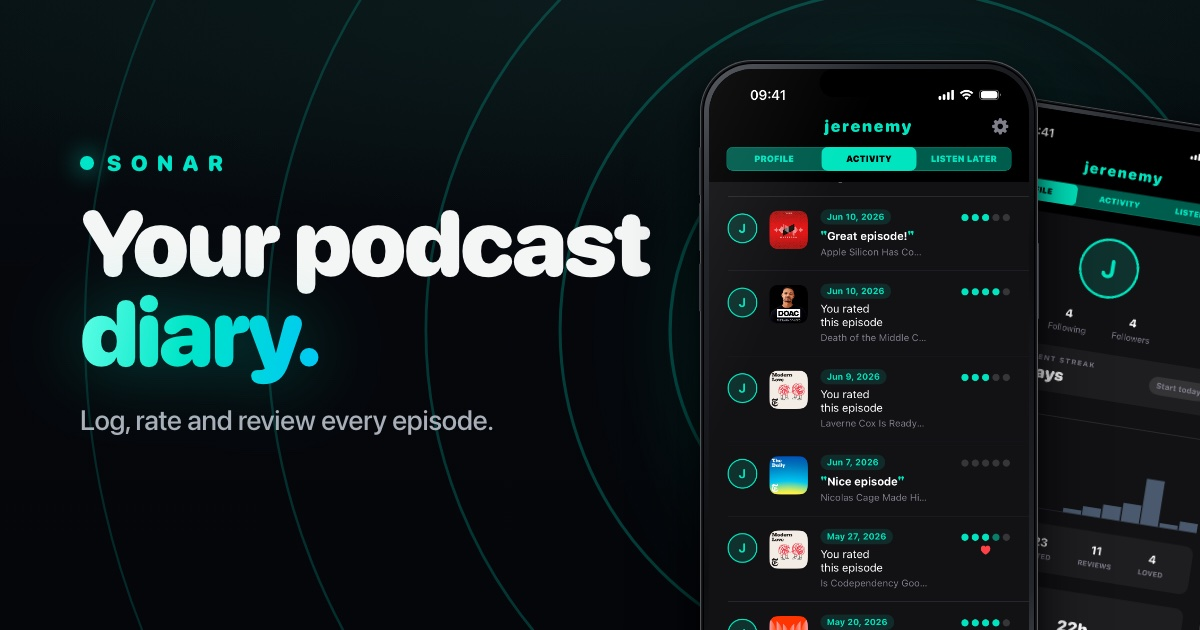
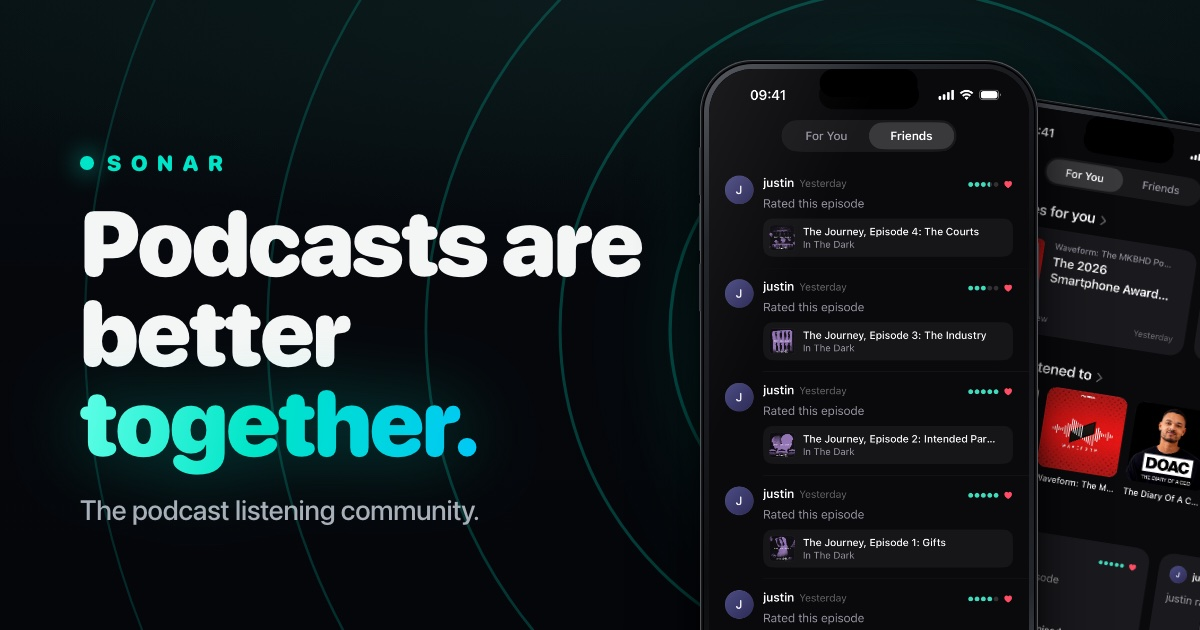
feat(sonar): new marketing assets, community positioning, Instagram
Swaps every screenshot for the redesigned app (friends feed, home,
review, episode, profile, search) from the latest marketing render, and
follows the kit's repositioning: "Podcasts are better together", the
podcast listening community. Adds a Reviews & replies section, a friends
icon tile, the new Open Graph image, and links @sonarpodcasts on
Instagram from the closing section and the foot.

diff --git a/app/templates/works/sonar/sonar.html b/app/templates/works/sonar/sonar.html
@@ -2,12 +2,13 @@
 {% import "partials/_ui.html" as ui with context %}
 {#- Sonar's own page: the one place on the site that wears a product's colours outside a device,
     because its job is to sell the app (static/site/README.md, "A product's own page"). The
-    world is styled in static/site/works/sonar.css under .sn; the rater is static/sonar/sonar.js. -#}
+    world is styled in static/site/works/sonar.css under .sn; the rater is static/sonar/sonar.js.
+    Screens and copy follow the marketing kit in the Sonar repo (marketing/web, marketing/src). -#}
 
-{#- The App Store link. Empty until Sonar is live: the buttons then say "Coming soon" and offer
-    to email when it launches. Paste the apps.apple.com URL here and every button becomes a download. -#}
+{#- The App Store link. Empty, the buttons say "Coming soon" and offer to email at launch. -#}
 {%- set app_store_url = "https://apps.apple.com/us/app/sonar-podcast-tracker/id6761410303" %}
 {%- set notify_url = "mailto:support@sonar.show?subject=Tell%20me%20when%20Sonar%20launches" %}
+{%- set instagram_url = "https://www.instagram.com/sonarpodcasts/" %}
 {%- set img = url_for('static', filename='sonar/img/') %}
 
 {% macro get_sonar(where) -%}
@@ -24,15 +25,22 @@
 {%- endif %}
 {%- endmacro %}
 
+{% macro instagram(cls="sn-ghost") -%}
+<a class="{{ cls }}" href="{{ instagram_url }}" target="_blank" rel="noopener">
+  <svg viewBox="0 0 24 24" aria-hidden="true"><rect x="3" y="3" width="18" height="18" rx="5.5" fill="none" stroke="currentColor" stroke-width="2"/><circle cx="12" cy="12" r="4.2" fill="none" stroke="currentColor" stroke-width="2"/><circle cx="17.3" cy="6.7" r="1.3" fill="currentColor"/></svg>
+  <span>@sonarpodcasts</span><span class="sr"> on Instagram (opens in a new tab)</span>
+</a>
+{%- endmacro %}
+
 {% macro phone(name, alt, cls="") -%}
 <img class="sn-phone {{ cls }}" src="{{ img }}phone-{{ name }}.webp" alt="{{ alt }}" width="880" height="1792" loading="{{ 'eager' if 'hero' in cls else 'lazy' }}" decoding="async">
 {%- endmacro %}
 
-{% block title %}Sonar · Your podcast diary for iPhone{% endblock %}
-{% block description %}Sonar is a podcast diary for iPhone. Log, rate and review every episode you hear, and see what your friends can't stop listening to. Letterboxd for podcasts.{% endblock %}
+{% block title %}Sonar · The podcast listening community{% endblock %}
+{% block description %}Sonar is the podcast listening community for iPhone. See what your friends are hearing, share your take on every episode, and reply to theirs. Free on the App Store.{% endblock %}
 {% block preview %}
-  {%- set og_title = "Sonar · Your podcast diary" %}
-  {%- set og_description = "Log, rate and review every episode you hear, and see what your friends can't stop listening to." %}
+  {%- set og_title = "Sonar · Podcasts are better together" %}
+  {%- set og_description = "The podcast listening community. See what your friends are hearing, share your take on every episode, and reply to theirs." %}
   {%- set og_image = url_for('static', filename='sonar/img/og.jpg', _external=True) %}
   <meta property="og:title" content="{{ og_title }}">
   <meta property="og:description" content="{{ og_description }}">
@@ -41,7 +49,7 @@
   <meta property="og:image" content="{{ og_image }}">
   <meta property="og:image:width" content="1200">
   <meta property="og:image:height" content="630">
-  <meta property="og:image:alt" content="Sonar: Your podcast diary. Two iPhones showing an episode diary and a listening profile.">
+  <meta property="og:image:alt" content="Sonar: Podcasts are better together. Two iPhones showing a friends feed of rated episodes.">
   <meta name="twitter:card" content="summary_large_image">
   <meta name="twitter:title" content="{{ og_title }}">
   <meta name="twitter:description" content="{{ og_description }}">
@@ -55,7 +63,7 @@
   <link rel="preconnect" href="https://fonts.gstatic.com" crossorigin>
   <link rel="stylesheet" href="https://fonts.googleapis.com/css2?family=Nunito:wght@700;800;900&display=swap">
   <link rel="stylesheet" href="{{ url_for('static', filename='site/works/sonar.css') }}">
-  <link rel="preload" as="image" href="{{ img }}phone-diary.webp">
+  <link rel="preload" as="image" href="{{ img }}phone-friends.webp">
 {% endblock %}
 {% block body_class %}sn-page{% endblock %}
 
@@ -79,38 +87,65 @@
 
     <div class="sn-hero__copy">
       <p class="sn-eyebrow" data-reveal><img src="{{ img }}app-icon.png" alt="" width="28" height="28">Sonar for iPhone</p>
-      <h1 class="sn-display" data-reveal>Your podcast <em>diary.</em></h1>
-      <p class="sn-sub" data-reveal>Log, rate and review every episode you hear, and see what your friends can’t stop listening to.</p>
+      <h1 class="sn-display" data-reveal>Podcasts are better <em>together.</em></h1>
+      <p class="sn-sub" data-reveal>Sonar is the podcast listening community. See what your friends are hearing, share your take on every episode, and reply to theirs.</p>
       <div class="sn-hero__cta" data-reveal>
         {{ get_sonar("hero") }}
-        <a class="sn-ghost" href="#rate">See how it works</a>
+        <a class="sn-ghost" href="#friends">See how it works</a>
       </div>
       <ul class="sn-pills" data-reveal aria-label="Highlights">
-        <li>Rate &amp; review</li><li>Follow friends</li><li>Track streaks</li>
+        <li>Friends’ feed</li><li>Reviews &amp; replies</li><li>Find your people</li>
       </ul>
     </div>
 
     <div class="sn-hero__stage" data-reveal>
       <div class="sn-hero__halo" aria-hidden="true"></div>
-      {{ phone("episode", "", "sn-phone--hero sn-phone--left") }}
-      {{ phone("profile", "", "sn-phone--hero sn-phone--right") }}
-      {{ phone("diary", "Sonar's diary: every episode you've logged, with its date, your rating in dots and your one-line take.", "sn-phone--hero sn-phone--front") }}
-      <img class="sn-card sn-card--hero" src="{{ img }}crop-rate.webp" alt="" width="970" height="230">
+      {{ phone("home", "", "sn-phone--hero sn-phone--left") }}
+      {{ phone("review", "", "sn-phone--hero sn-phone--right") }}
+      {{ phone("friends", "Sonar's Friends feed: the episodes your friends rated, each with their score in dots and a heart for the ones they loved.", "sn-phone--hero sn-phone--front") }}
+      <img class="sn-card sn-card--hero" src="{{ img }}crop-friend.webp" alt="" width="1126" height="350">
     </div>
   </header>
 
   {#- ------------------------------------------------------------- the problem -#}
   <section class="sn-problem" aria-label="Why Sonar">
-    <p class="sn-statement" data-reveal>Podcast apps are great at <b>playing</b> episodes.<br><span>Terrible at remembering them.</span></p>
-    <p class="sn-problem__answer" data-reveal>Sonar is the missing memory: a diary for everything you listen to. Think Letterboxd, for podcasts.</p>
+    <p class="sn-statement" data-reveal>Podcasts are made to be <b>talked about.</b><br><span>Most apps leave you listening alone.</span></p>
+    <p class="sn-problem__answer" data-reveal>Sonar puts the people back in podcasts: your friends’ picks, their honest takes, and a place to answer them.</p>
   </section>
 
   {#- ------------------------------------------------------------ the features -#}
-  <section class="sn-feat" id="rate" aria-labelledby="rate-h">
+  <section class="sn-feat" id="friends" aria-labelledby="friends-h">
+    <div class="sn-feat__copy" data-reveal>
+      <p class="sn-kicker">Friends</p>
+      <h2 class="sn-h2" id="friends-h">See what friends are <em>hearing.</em></h2>
+      <p class="sn-body">Follow the people whose taste you trust. Every episode they rate or review lands in your feed, so the next great listen finds you, not the other way round.</p>
+      <ul class="sn-ticks">
+        <li>A Friends feed of everything they’ve rated and loved</li>
+        <li>Episodes picked for you, from the shows you follow</li>
+        <li>What you listened to recently, one tap away</li>
+      </ul>
+    </div>
+    <div class="sn-feat__media" data-reveal>
+      {{ phone("home", "Sonar's home: episodes for you, recently listened to, and what friends rated.") }}
+    </div>
+  </section>
+
+  <section class="sn-feat sn-feat--flip" aria-labelledby="reviews-h">
+    <div class="sn-feat__copy" data-reveal>
+      <p class="sn-kicker">Reviews</p>
+      <h2 class="sn-h2" id="reviews-h">Share your take. <em>Start the conversation.</em></h2>
+      <p class="sn-body">Write a line or a page about any episode. Friends can love it and reply, and you can answer theirs. Every episode becomes a place to talk about it.</p>
+    </div>
+    <div class="sn-feat__media" data-reveal>
+      {{ phone("review", "A review in Sonar: a rating in dots, the episode it is about, and replies underneath.") }}
+    </div>
+  </section>
+
+  <section class="sn-feat" aria-labelledby="rate-h">
     <div class="sn-feat__copy" data-reveal>
       <p class="sn-kicker">Rate</p>
       <h2 class="sn-h2" id="rate-h">Rate every <em>episode.</em></h2>
-      <p class="sn-body">Five dots, half-steps, one honest take. Mark it listened, give it a score, love the ones that stay with you, and write a line about why.</p>
+      <p class="sn-body">Five dots, half-steps, one honest take. Tap or slide to rate, mark it listened, love the ones that stay with you, and save the rest for later.</p>
       <div class="sn-try">
         <p class="sn-try__label">Try it. How was the last episode you heard?</p>
         <div class="sn-rater" role="slider" tabindex="0" aria-label="Your rating" aria-valuemin="0" aria-valuemax="10" aria-valuenow="7" aria-valuetext="7 out of 10, really good" data-value="7">
@@ -120,52 +155,35 @@
       </div>
     </div>
     <div class="sn-feat__media" data-reveal>
-      {{ phone("episode", "An episode page in Sonar: show notes, links to Apple Podcasts and Spotify, and your log.") }}
+      {{ phone("episode", "An episode page in Sonar: show notes, links to Apple Podcasts and Spotify, and five dots to rate it.") }}
     </div>
   </section>
 
-  <section class="sn-feat sn-feat--flip" aria-labelledby="social-h">
-    <div class="sn-feat__copy" data-reveal>
-      <p class="sn-kicker">Social</p>
-      <h2 class="sn-h2" id="social-h">Hear what friends <em>love.</em></h2>
-      <p class="sn-body">Follow the people whose taste you trust. Their ratings and reviews land in your feed, so the next great episode finds you, not the other way round.</p>
-      <ul class="sn-ticks">
-        <li>Fresh episodes from shows you follow</li>
-        <li>What you listened to recently, one tap away</li>
-        <li>Friends’ picks, with their scores and takes</li>
-      </ul>
-    </div>
-    <div class="sn-feat__media" data-reveal>
-      {{ phone("home", "Sonar's home: episodes for you, recently listened to, and what friends rated.") }}
-      <img class="sn-card sn-card--b" src="{{ img }}crop-review.webp" alt="A review in the feed: a date, a quote reading Great episode!, and a three-dot rating." width="1100" height="240" loading="lazy">
-    </div>
-  </section>
-
-  <section class="sn-feat" aria-labelledby="stats-h">
+  <section class="sn-feat sn-feat--flip" aria-labelledby="stats-h">
     <div class="sn-feat__copy" data-reveal>
       <p class="sn-kicker">Profile</p>
       <h2 class="sn-h2" id="stats-h">Your taste, <em>in numbers.</em></h2>
-      <p class="sn-body">Your average rating, how your scores spread, how many hours you’ve listened, and a streak to keep alive. The more you log, the better you know your own ear.</p>
+      <p class="sn-body">Your average rating, how your scores spread, the hours you’ve listened and a streak to keep alive. Tap any bar to see the episodes behind it.</p>
       <dl class="sn-stats" aria-label="An example profile">
         <div><dt>Listened</dt><dd data-count="23">23</dd></div>
-        <div><dt>Reviews</dt><dd data-count="11">11</dd></div>
+        <div><dt>Reviewed</dt><dd data-count="11">11</dd></div>
         <div><dt>Hours</dt><dd data-count="22">22</dd></div>
       </dl>
     </div>
     <div class="sn-feat__media" data-reveal>
-      {{ phone("profile", "A Sonar profile: followers, a rating distribution and listening stats.") }}
-      <img class="sn-card sn-card--c" src="{{ img }}crop-stats.webp" alt="Stats: an average rating of 3.7, a histogram of ratings, and counts of listened, rated, reviews and loved." width="1086" height="590" loading="lazy">
+      {{ phone("profile", "A Sonar profile: followers, a streak, listening stats and a rating distribution.") }}
+      <img class="sn-card sn-card--c" src="{{ img }}crop-stats.webp" alt="Ratings: an average of 3.7 and a histogram of every score given." width="1126" height="480" loading="lazy">
     </div>
   </section>
 
-  <section class="sn-feat sn-feat--flip" aria-labelledby="search-h">
+  <section class="sn-feat" aria-labelledby="search-h">
     <div class="sn-feat__copy" data-reveal>
       <p class="sn-kicker">Discover</p>
       <h2 class="sn-h2" id="search-h">Every show. <em>One search.</em></h2>
-      <p class="sn-body">The whole open podcast catalogue in your pocket, millions of shows from the Podcast Index. Search podcasts, guests and people, and log anything you find.</p>
+      <p class="sn-body">The whole open podcast catalogue in your pocket, millions of shows from the Podcast Index. Search podcasts, episodes and people, and find your next favourite in Top podcasts.</p>
     </div>
     <div class="sn-feat__media" data-reveal>
-      {{ phone("search", "Searching Sonar for Radiolab: podcasts, guests and users, each in its own tab.") }}
+      {{ phone("search", "Sonar's search: a grid of top podcasts, with a search bar for podcasts, episodes and people.") }}
     </div>
   </section>
 
@@ -173,12 +191,12 @@
   <section class="sn-all" aria-labelledby="all-h">
     <h2 class="sn-h2 sn-all__title" id="all-h" data-reveal>Everything a listener <em>needs.</em></h2>
     <ul class="sn-tiles">
-      <li data-reveal><span class="sn-ico sn-ico--log" aria-hidden="true"></span><h3>Log every listen</h3><p>One tap marks an episode heard, with the date it happened.</p></li>
+      <li data-reveal><span class="sn-ico sn-ico--friends" aria-hidden="true"></span><h3>Friends’ feed</h3><p>What the people you follow rated, loved and wrote, as it happens.</p></li>
+      <li data-reveal><span class="sn-ico sn-ico--quote" aria-hidden="true">“</span><h3>Reviews &amp; replies</h3><p>Say what you thought, then keep the conversation going.</p></li>
       <li data-reveal><span class="sn-ico sn-ico--dots" aria-hidden="true"><i></i><i></i><i></i><i></i><i></i></span><h3>Half-step ratings</h3><p>Ten points on five dots, so a 7 and an 8 are never the same.</p></li>
-      <li data-reveal><span class="sn-ico sn-ico--quote" aria-hidden="true">“</span><h3>Reviews</h3><p>A line or a page. Edit it, delete it, read everyone else’s.</p></li>
       <li data-reveal><span class="sn-ico sn-ico--heart" aria-hidden="true"></span><h3>Loved</h3><p>The episodes you’d send a friend, kept in one place.</p></li>
-      <li data-reveal><span class="sn-ico sn-ico--flame" aria-hidden="true"></span><h3>Streaks</h3><p>Log a little every day and watch the streak grow.</p></li>
-      <li data-reveal><span class="sn-ico sn-ico--later" aria-hidden="true"></span><h3>Listen later</h3><p>A queue for the episodes worth coming back to.</p></li>
+      <li data-reveal><span class="sn-ico sn-ico--flame" aria-hidden="true"></span><h3>Streaks</h3><p>Log an episode a day and watch the streak grow.</p></li>
+      <li data-reveal><span class="sn-ico sn-ico--later" aria-hidden="true"></span><h3>Save for later</h3><p>A queue for the episodes worth coming back to.</p></li>
     </ul>
   </section>
 
@@ -191,15 +209,15 @@
       <circle class="sn-rings__ping" r="110"/>
     </svg>
     <img class="sn-close__icon" src="{{ img }}app-icon.png" alt="Sonar app icon" width="128" height="128" loading="lazy" data-reveal>
-    <h2 class="sn-display sn-display--close" id="close-h" data-reveal>Never forget a great <em>episode.</em></h2>
+    <h2 class="sn-display sn-display--close" id="close-h" data-reveal>Find your <em>podcast people.</em></h2>
     <p class="sn-sub" data-reveal>{{ "Sonar is free on iPhone." if app_store_url else "Sonar is coming to iPhone, free." }}</p>
-    <div class="sn-close__cta" data-reveal>{{ get_sonar("close") }}</div>
+    <div class="sn-close__cta" data-reveal>{{ get_sonar("close") }}{{ instagram() }}</div>
     <p class="sn-close__help" data-reveal>Questions? <a href="{{ url_for('public.sonar_support') }}">Support</a> · <a href="mailto:support@sonar.show">support@sonar.show</a></p>
   </section>
 </div>
 {% endblock %}
 {% block foot %}
-  <ul><li><a href="{{ url_for('public.sonar_support') }}">Support</a></li><li><a href="{{ url_for('public.sonar_privacy') }}">Privacy</a></li></ul>
+  <ul><li><a href="{{ url_for('public.sonar_support') }}">Support</a></li><li><a href="{{ url_for('public.sonar_privacy') }}">Privacy</a></li><li><a href="{{ instagram_url }}" target="_blank" rel="noopener">Instagram</a></li></ul>
 {% endblock %}
 {% block scripts %}
   <script src="{{ url_for('static', filename='sonar/sonar.js') }}" defer></script>

diff --git a/app/static/site/works/sonar.css b/app/static/site/works/sonar.css
@@ -63,6 +63,7 @@
   color: var(--sn-text); font: 800 16px/1 var(--sn-round); box-shadow: 0 0 0 1px rgba(244, 246, 245, 0.18) inset;
   transition: box-shadow var(--t-mid) var(--ease), color var(--t-mid) var(--ease);
 }
+.sn-ghost svg { width: 20px; height: 20px; margin-right: 10px; flex: none; }
 .sn-ghost:hover, .sn-ghost:focus-visible { color: var(--sn-teal); box-shadow: 0 0 0 1px var(--sn-teal) inset; }
 
 /* ---------------------------------------------------------------- the rings */
@@ -80,6 +81,7 @@
 }
 .sn-hero > .sn-rings { width: 1500px; height: 1500px; left: 72%; top: 46%; transform: translate(-50%, -50%); }
 .sn-hero__copy { position: relative; z-index: 2; }
+.sn-hero .sn-display { font-size: clamp(48px, 6.4vw, 96px); }
 .sn-hero__cta { display: flex; flex-wrap: wrap; gap: var(--s2); margin-top: var(--s5); }
 .sn-pills { display: flex; flex-wrap: wrap; gap: 10px; margin: var(--s4) 0 0; padding: 0; list-style: none; }
 .sn-pills li {
@@ -117,7 +119,6 @@
 .sn-feat__media { position: relative; display: flex; justify-content: center; padding: var(--s5) 0; }
 .sn-feat__media::before { content: ""; position: absolute; inset: 10% 15%; border-radius: 50%; background: radial-gradient(closest-side, rgba(0, 229, 200, 0.22), transparent); filter: blur(30px); }
 .sn-feat__media .sn-phone { position: relative; width: min(300px, 70%); }
-.sn-card--b { width: min(360px, 80%); right: 0; top: 24%; transform: rotate(2.5deg); }
 .sn-card--c { width: min(330px, 74%); left: 0; bottom: 14%; transform: rotate(-2.5deg); }
 .js .sn-feat__media .sn-card { opacity: 0; translate: 0 24px; transition: opacity var(--t-slow) var(--ease) 0.35s, translate var(--t-slow) var(--ease) 0.35s; }
 .js .sn-feat__media.is-in .sn-card { opacity: 1; translate: 0 0; }
@@ -159,7 +160,9 @@
 
 /* The tiles' marks, drawn in Sonar's language: teal on dark, dots and rings. */
 .sn-ico { position: relative; display: flex; align-items: center; justify-content: center; width: 48px; height: 48px; border-radius: 14px; background: rgba(0, 229, 200, 0.1); box-shadow: 0 0 0 1px rgba(0, 229, 200, 0.28) inset; color: var(--sn-teal); }
-.sn-ico--log::before { content: ""; width: 16px; height: 9px; margin-top: -4px; border: solid var(--sn-teal); border-width: 0 0 3px 3px; transform: rotate(-45deg); border-radius: 1px; }
+.sn-ico--friends::before, .sn-ico--friends::after { content: ""; position: absolute; top: 15px; width: 16px; height: 16px; border-radius: 50%; border: 3px solid var(--sn-teal); box-sizing: border-box; }
+.sn-ico--friends::before { left: 10px; }
+.sn-ico--friends::after { left: 21px; background: rgba(0, 229, 200, 0.35); }
 .sn-ico--dots { gap: 3px; width: max-content; padding: 0 10px; }
 .sn-ico--dots i { width: 7px; height: 7px; border-radius: 50%; background: var(--sn-teal); }
 .sn-ico--dots i:nth-child(4) { background: linear-gradient(90deg, var(--sn-teal) 50%, var(--sn-off) 50%); }
@@ -176,7 +179,7 @@
 .sn-close__icon { display: block; width: 112px; height: 112px; margin: 0 auto; border-radius: 26px; box-shadow: 0 0 0 1px rgba(0, 229, 200, 0.4), 0 0 60px rgba(0, 229, 200, 0.4), 0 20px 40px rgba(0, 0, 0, 0.6); }
 .sn-display--close { margin-top: var(--s5); font-size: clamp(44px, 6.4vw, 88px); }
 .sn-close .sn-sub { margin-inline: auto; }
-.sn-close__cta { margin-top: var(--s5); }
+.sn-close__cta { display: flex; flex-wrap: wrap; justify-content: center; gap: var(--s2); margin-top: var(--s5); }
 .sn-close__help { margin-top: var(--s5); color: var(--sn-text-3); font-size: 14px; }
 .sn-close__help a { color: var(--sn-text-2); text-decoration: underline; text-decoration-color: rgba(244, 246, 245, 0.25); text-underline-offset: 3px; }
 .sn-close__help a:hover { color: var(--sn-teal); }
@@ -198,7 +201,7 @@
   .sn-phone--left { transform: translate(-100%, -46%) rotate(-9deg); }
   .sn-phone--right { transform: translate(0%, -46%) rotate(9deg); }
   .sn-card--hero { width: 250px; transform: translateX(-70%) rotate(-3deg); }
-  .sn-hero__cta > * { flex: 1 1 100%; justify-content: center; }
+  .sn-hero__cta > *, .sn-close__cta > * { flex: 1 1 100%; justify-content: center; }
   .sn-get small { font-size: 10px; letter-spacing: 0.04em; }
   .sn-problem { margin-top: var(--s12); padding: var(--s8) 0; }
   .sn-feat { margin-top: var(--s12); }
